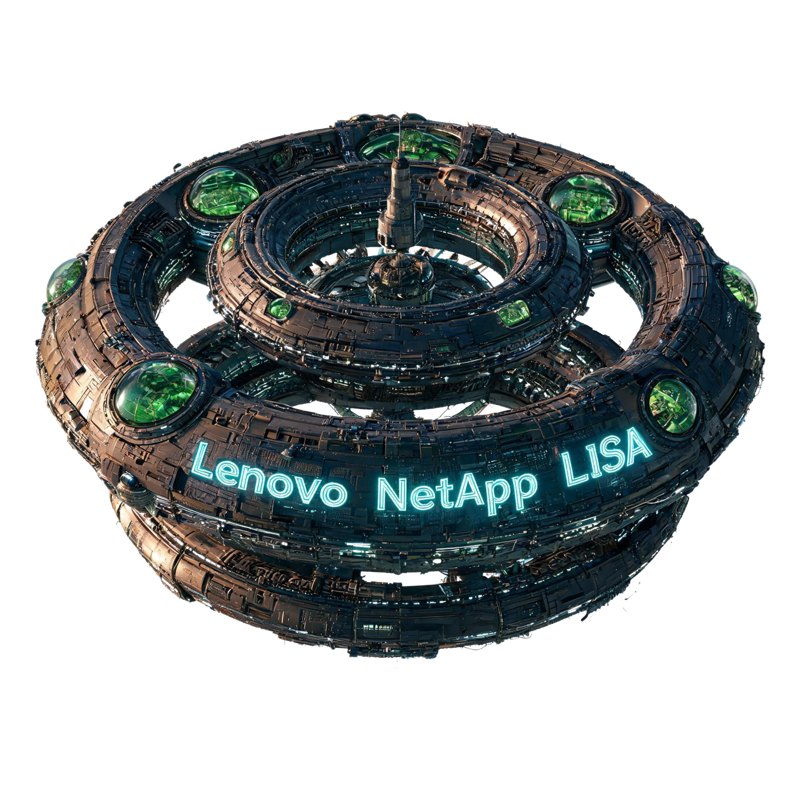
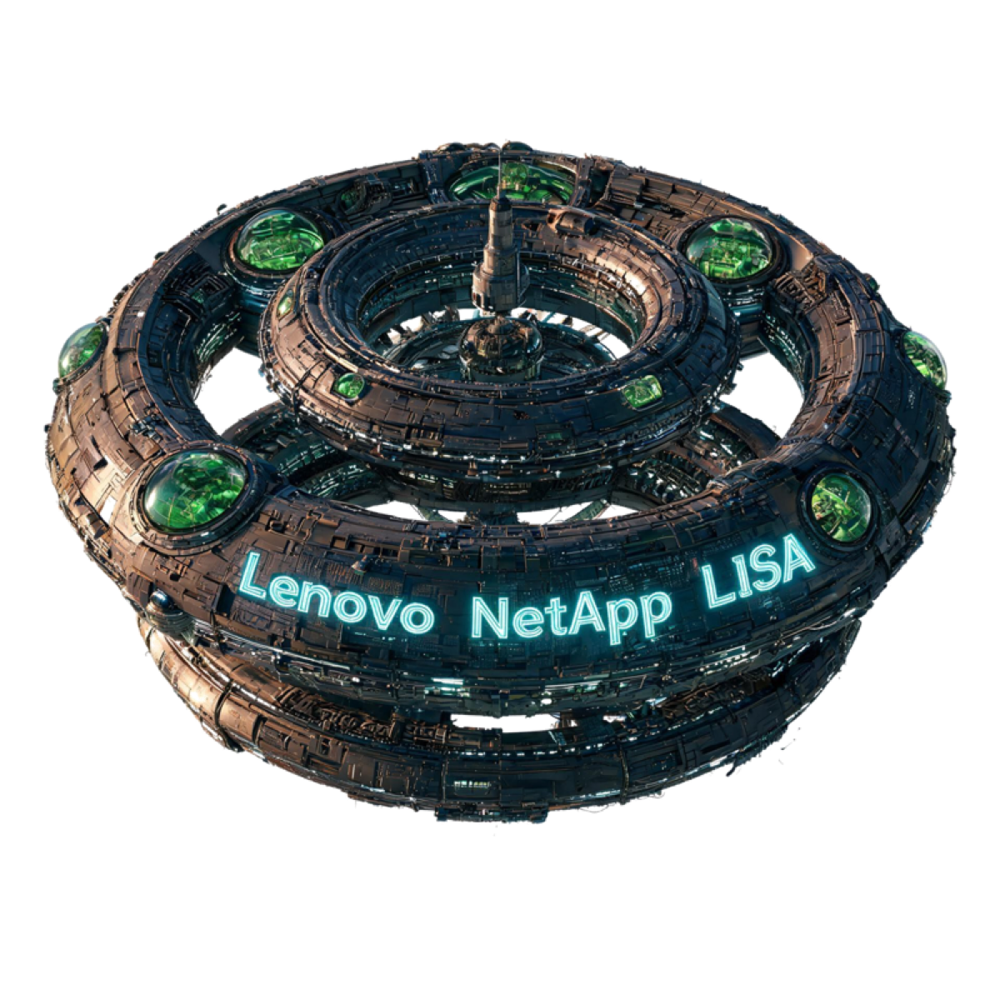
Fix transparent PNG layers (mars-2/mars-3) to show Earth
Previous JPG conversion lost alpha channel, causing the window and
astronaut layers to fully cover the Earth background with opaque black.
Restore PNG format for transparent layers while keeping Earth as JPG.

diff --git a/martian-parallax-experience/app/page.tsx b/martian-parallax-experience/app/page.tsx
@@ -203,7 +203,7 @@ export default function Page() {
           top: "-15%",
         }}
       >
-        <Image src="/images/mars-2.jpg" alt="Spacecraft interior window" fill className="object-cover" />
+        <Image src="/images/mars-2.png" alt="Spacecraft interior window" fill className="object-cover" />
       </div>
 
       <div
@@ -252,7 +252,7 @@ export default function Page() {
           top: "calc(-5% + 150px)",
         }}
       >
-        <Image src="/images/mars-3.jpg" alt="Astronaut in orange spacesuit" fill className="object-cover" />
+        <Image src="/images/mars-3.png" alt="Astronaut in orange spacesuit" fill className="object-cover" />
       </div>
 
       {/* ===== Access login overlay ===== */}

diff --git a/login.html b/login.html
@@ -116,7 +116,7 @@
   </div>
   <!-- Layer 2 -->
   <div class="layer layer-2" id="l2">
-    <img src="martian-parallax-experience/public/images/mars-2.jpg" alt="">
+    <img src="martian-parallax-experience/public/images/mars-2.png" alt="">
   </div>
   <!-- LISA title -->
   <div class="layer layer-text" id="lText">
@@ -125,7 +125,7 @@
   </div>
   <!-- Layer 3 -->
   <div class="layer layer-3" id="l3">
-    <img src="martian-parallax-experience/public/images/mars-3.jpg" alt="">
+    <img src="martian-parallax-experience/public/images/mars-3.png" alt="">
   </div>
 </div>
 
